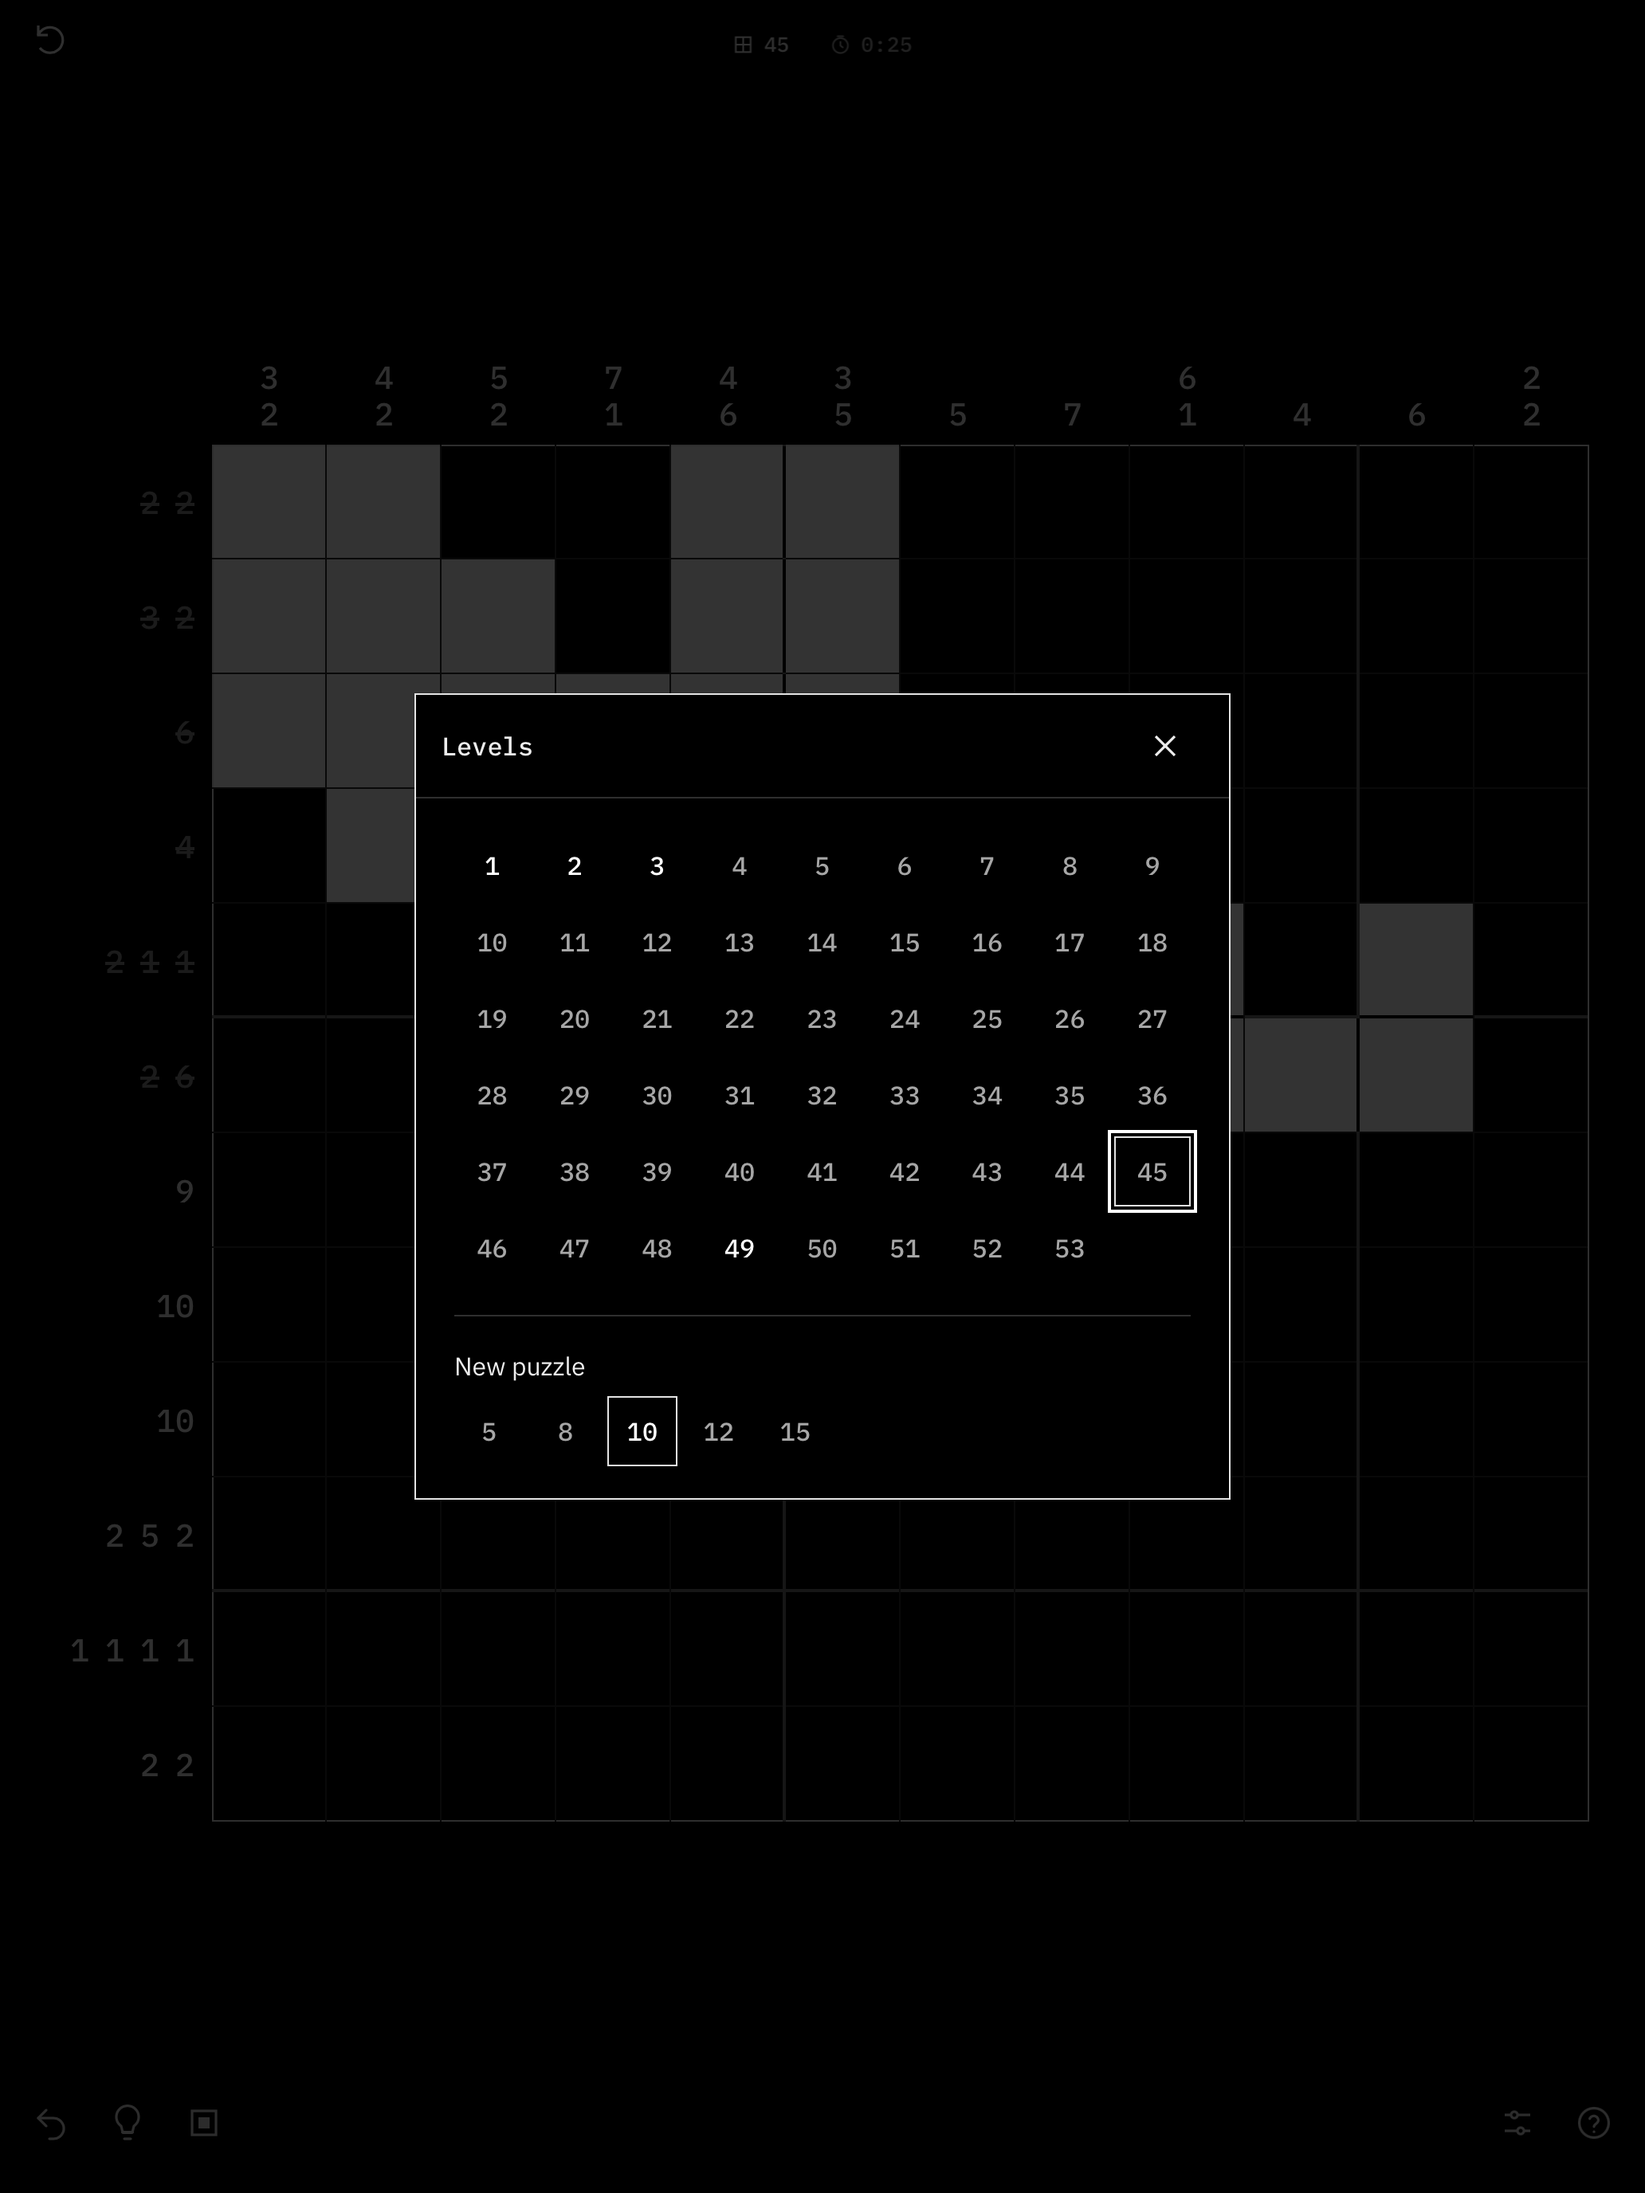
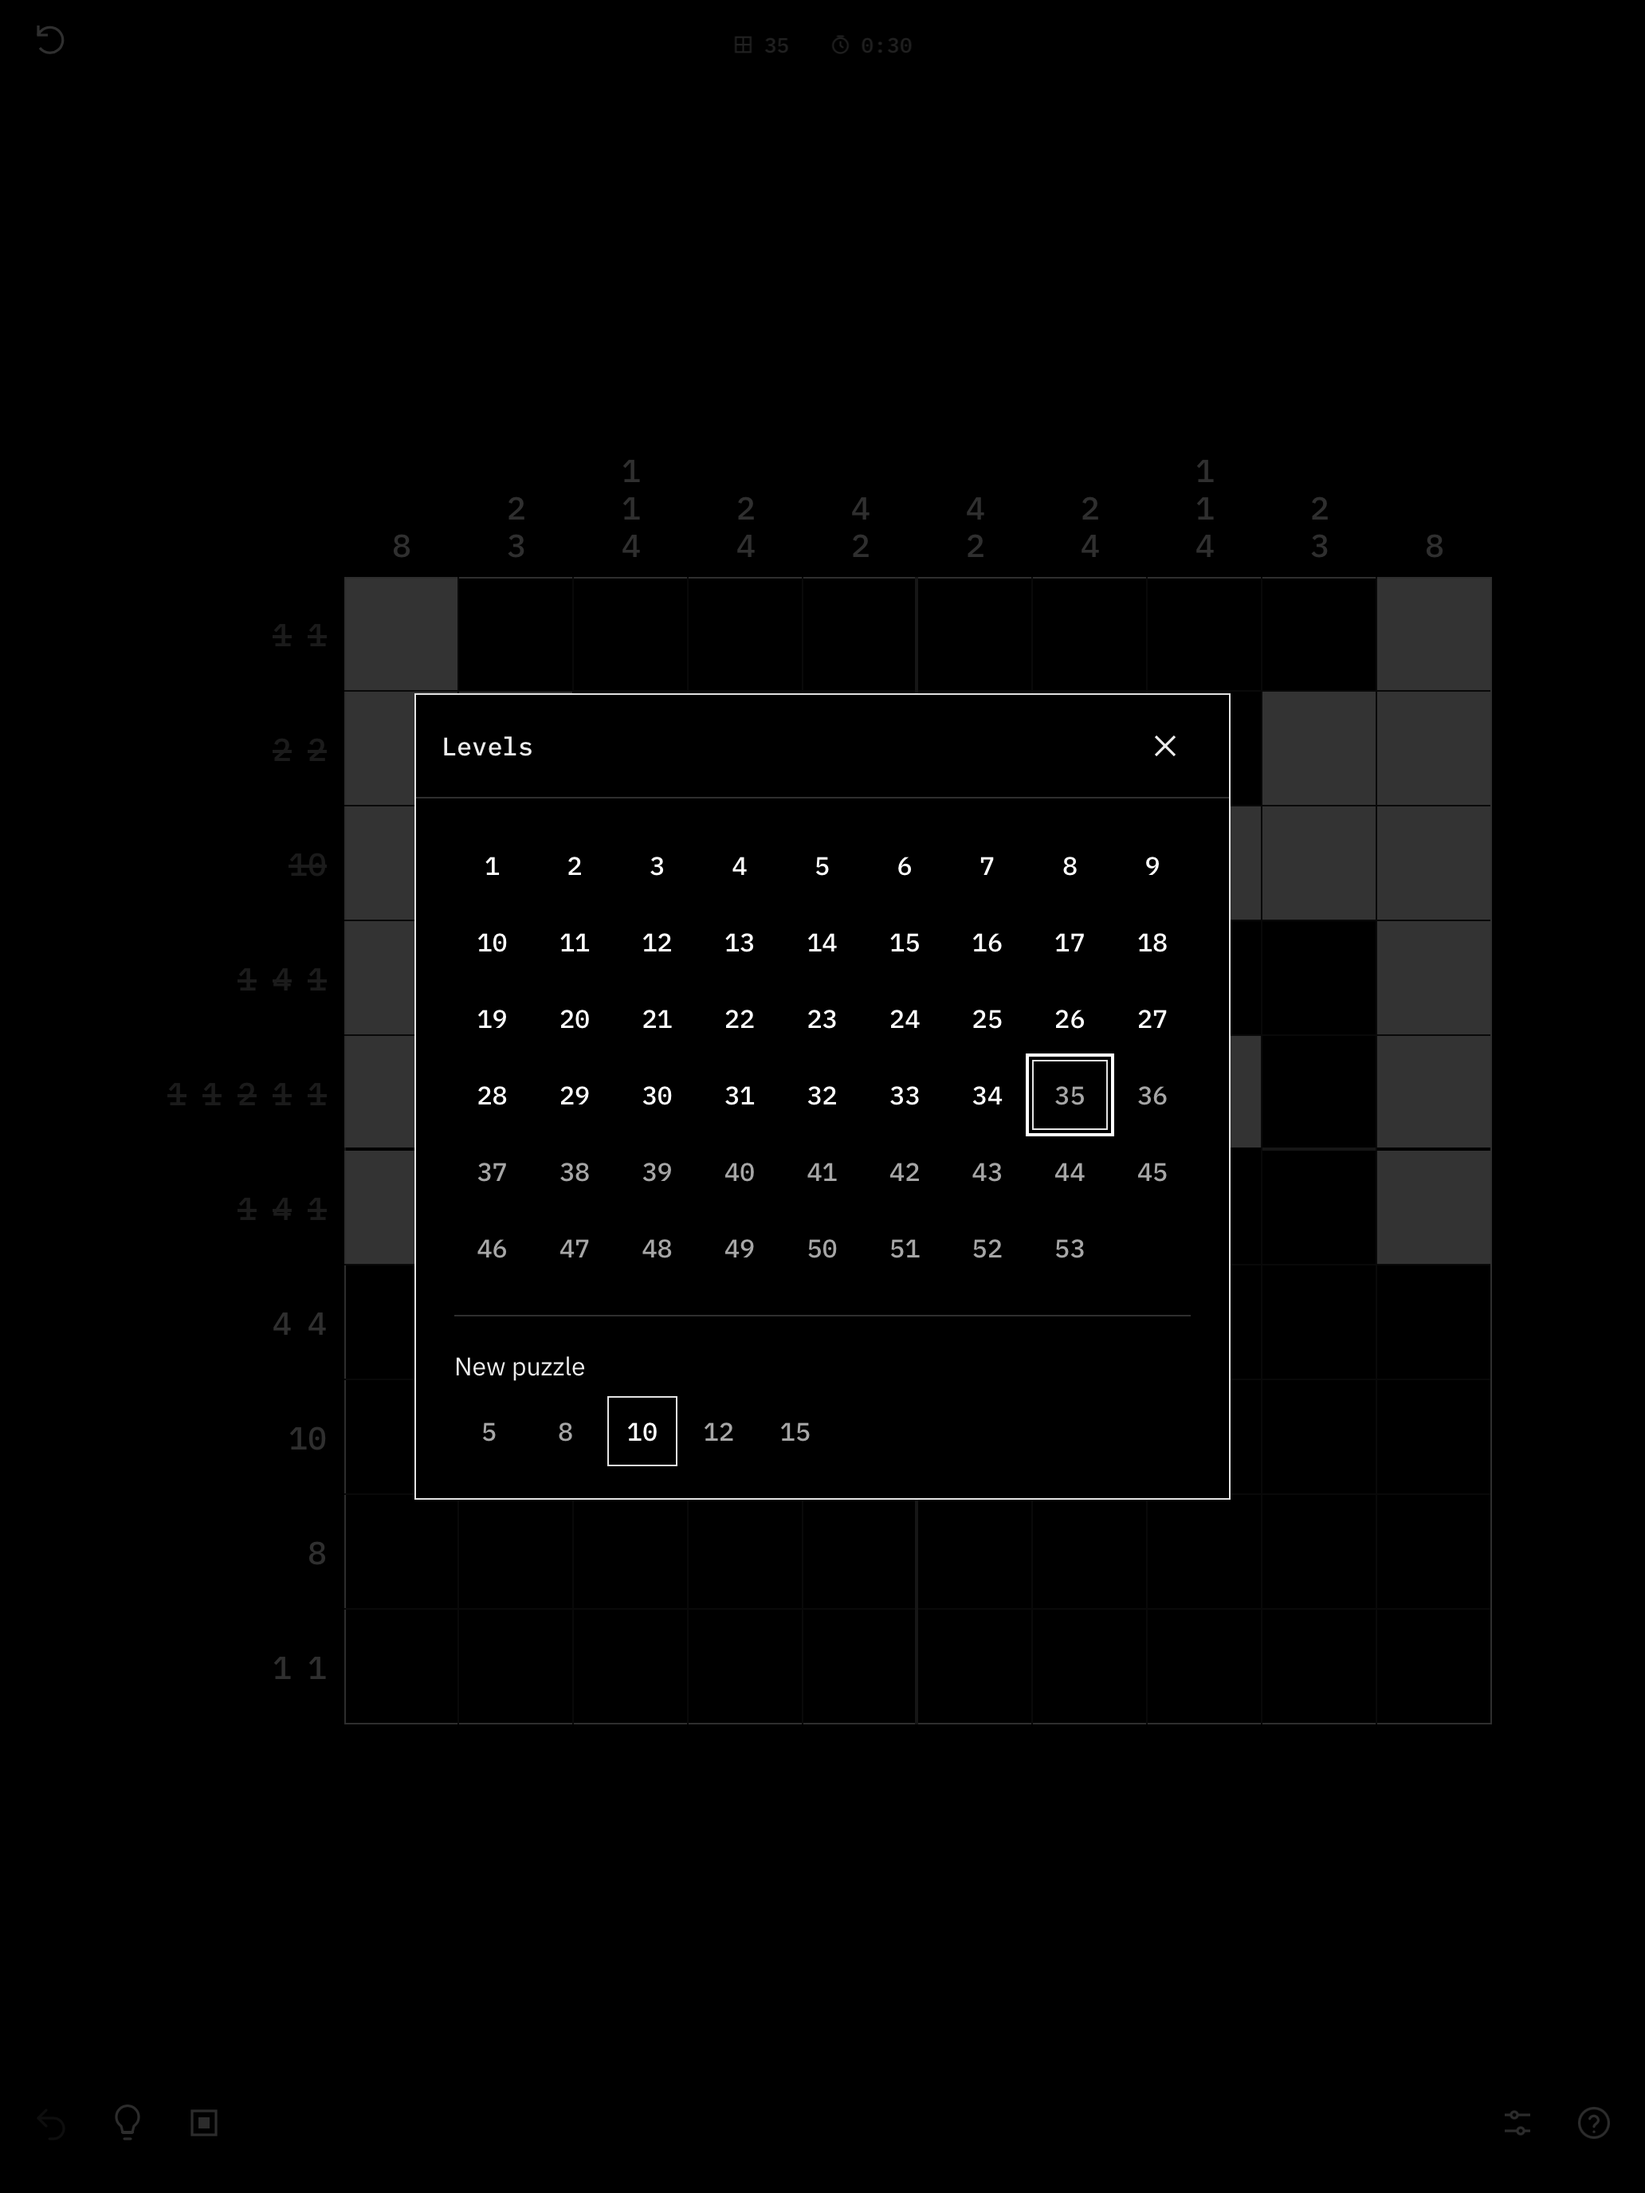
1.0.1 store copy: approved What's New, solved shots in color, phone/iPad capture modes

Changed region(s): [[0.124, 0.1875, 0.5581, 0.5938], [0.7442, 0.25, 0.9302, 0.5938], [0.6202, 0.4688, 0.6822, 0.5312]]

diff --git a/app/docs/RELEASE.md b/app/docs/RELEASE.md
@@ -166,14 +166,31 @@ Capacitor 8.5.3 source, not tapped. **Not run:** the unfolded Duo poses
 (folding needs a click in Device Hub), an Android emulator (the Android
 WebView is the Chromium checked above), a phone.
 
-What's New, **draft for Luke's approval** (then into
-`app-store/metadata/en-US/release_notes.txt` and the Play release notes):
+What's New, **approved by Luke 2026-11-18**, in
+`app-store/metadata/en-US/release_notes.txt` and
+`app-store/google-play/en-US/release_notes.txt`:
 
 > Press Hint twice to make the hinted move. After a solve, the arrow takes
 > you to the next puzzle, and once you reach the end it takes you back to the
 > first one you haven't solved.
 
-Still owed with this update: replace the two App Store solved screenshots
-that show the picture black (6.7"/6.9" #2 fish, iPad #2 moth); a sign script
-pinned to the merged commit (copy the 1.0.0 (3) one under
-`~/workspace/duo-release-20261114/sign/`).
+Store screenshots retaken 2026-11-18 from Debug builds of the merged code
+with `scripts/capture-duo.sh` (now also `phone` and `ipad`) on new
+simulators "Store iPhone 6.9 20261118" (iPhone 17 Pro Max) and "Store
+iPad 13 20261118" (iPad Pro 13" M5), iOS 27.2. The two black solved shots
+are fixed: `02-solved-fish.png` shows the fish in color with the continue
+disc, and the iPad's #2 is now the fish too (`02-solved-fish-ipad.png`,
+replacing the moth: the Debug `-NotanShot solved` scene stages only the
+fish, and adding a moth scene would change app code after the pin). The
+owl and levels shots changed slightly with the new code and were replaced;
+`03-dark-in-progress*` and `05-how-to-play` have no scene and were kept.
+
+Sign script: `~/workspace/release-1.0.1-20261118/sign/notan-1.0.1-4.sh` (run in Terminal.app on
+napoleon). It builds from a clean clone at the main commit that merges
+these store files, and refuses unless every build input under `app/`
+(all but docs, store copy and capture scripts) matches the 1.0.1 merge
+`fb9f6a1`. It signs Android with the existing release key, stages the AAB
+and notes in `~/workspace/play-uploads/to-upload/`, then archives, checks,
+validates and uploads the iOS build to App Store Connect. Nothing is
+attached to a version or submitted. The App Store screenshots above go up
+with the 1.0.1 version, once its build is processed.
